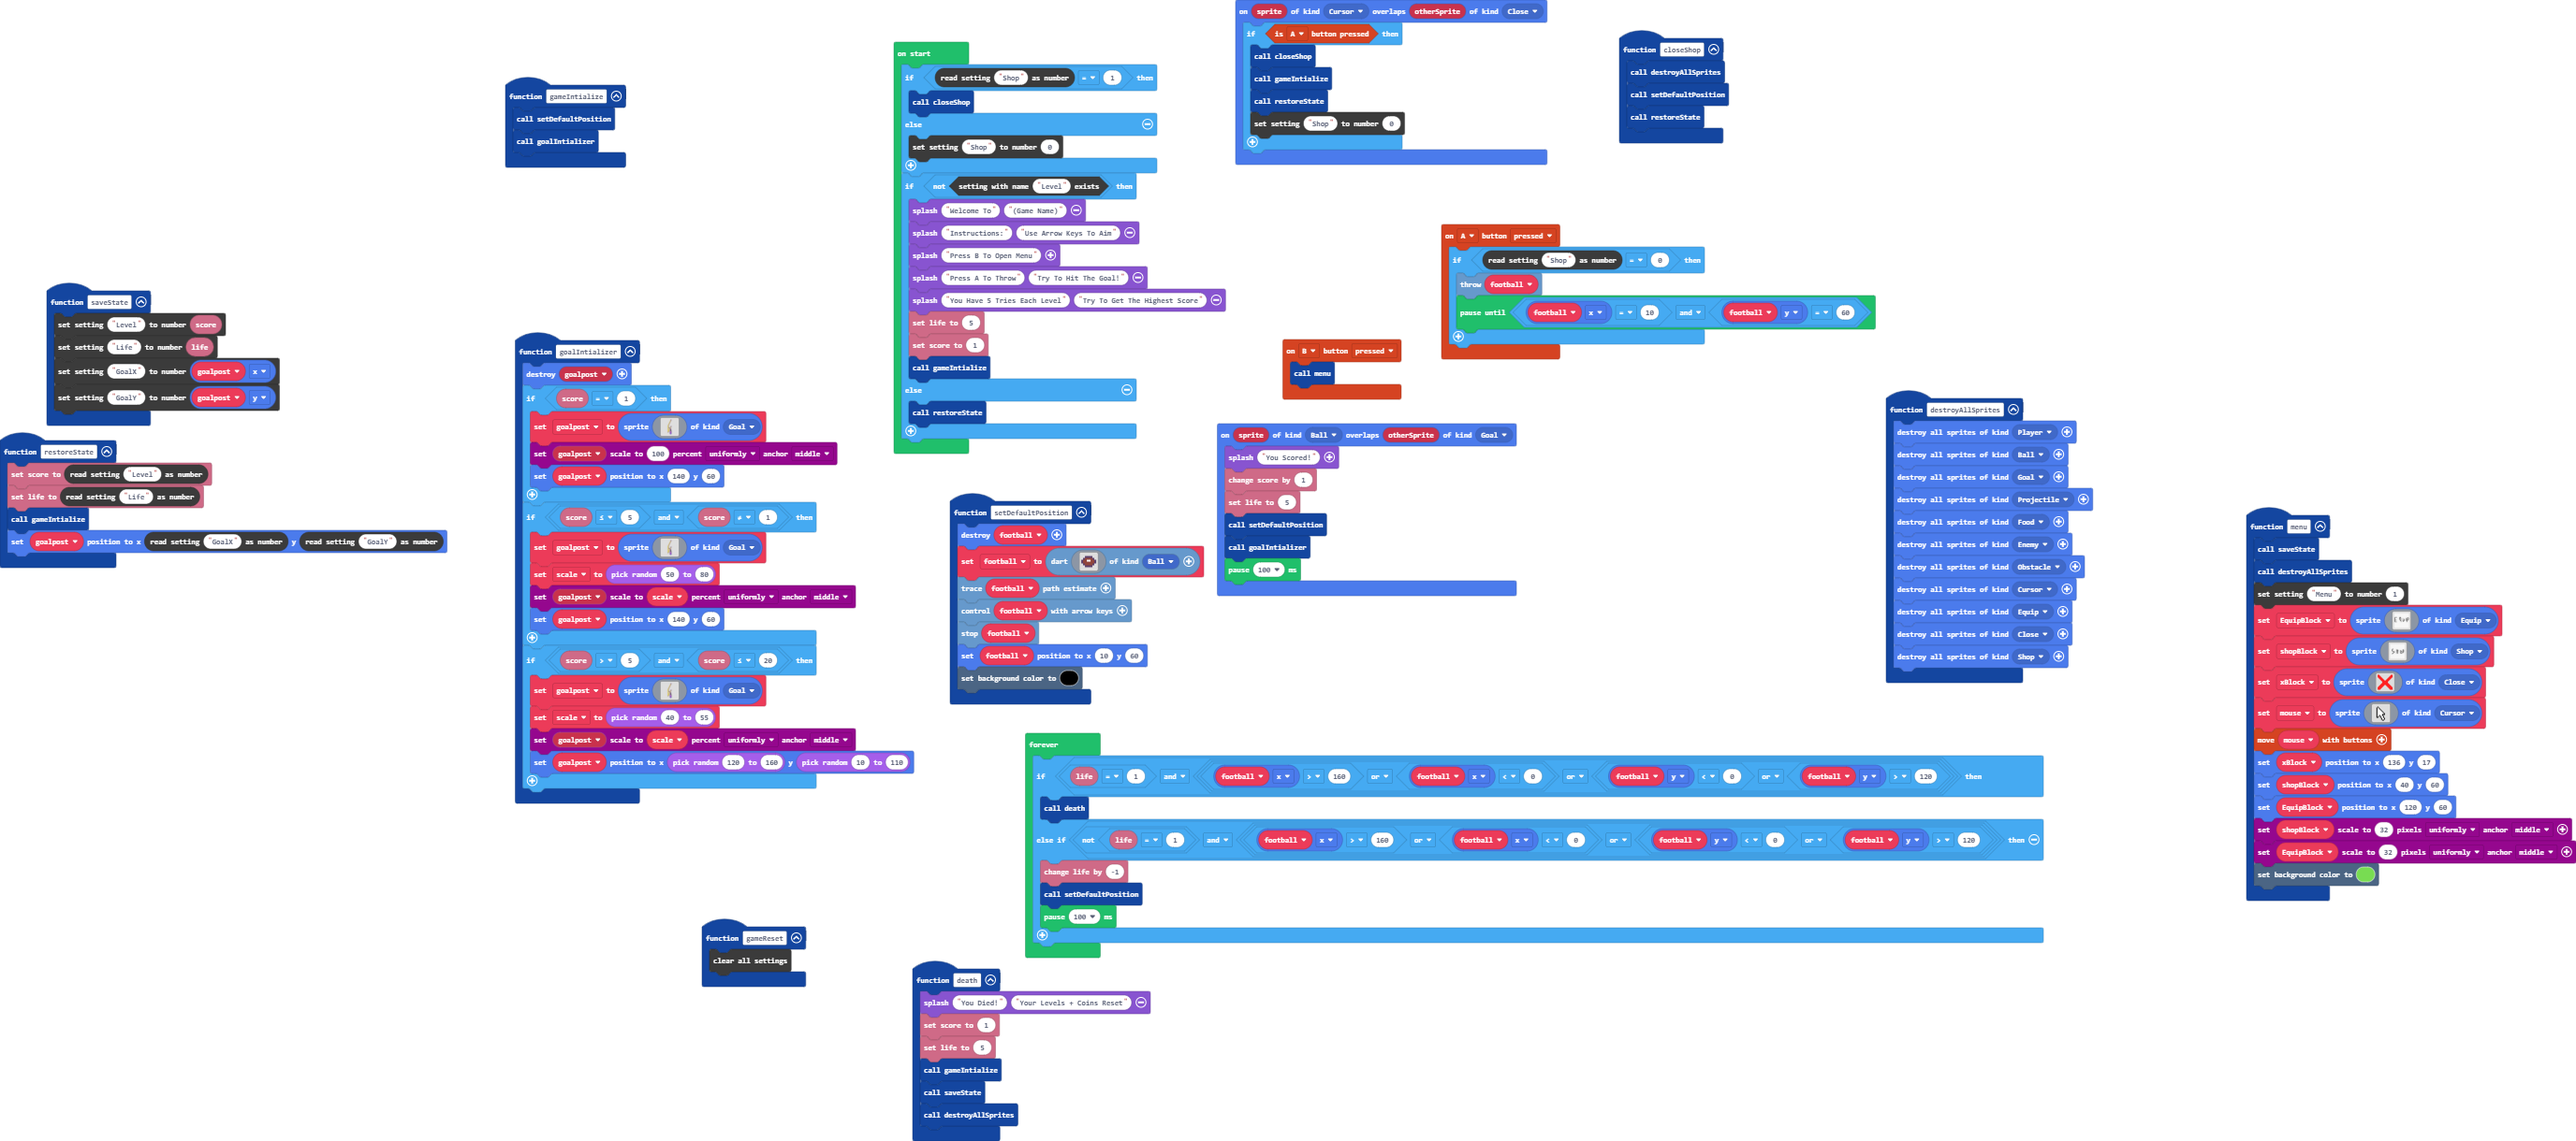
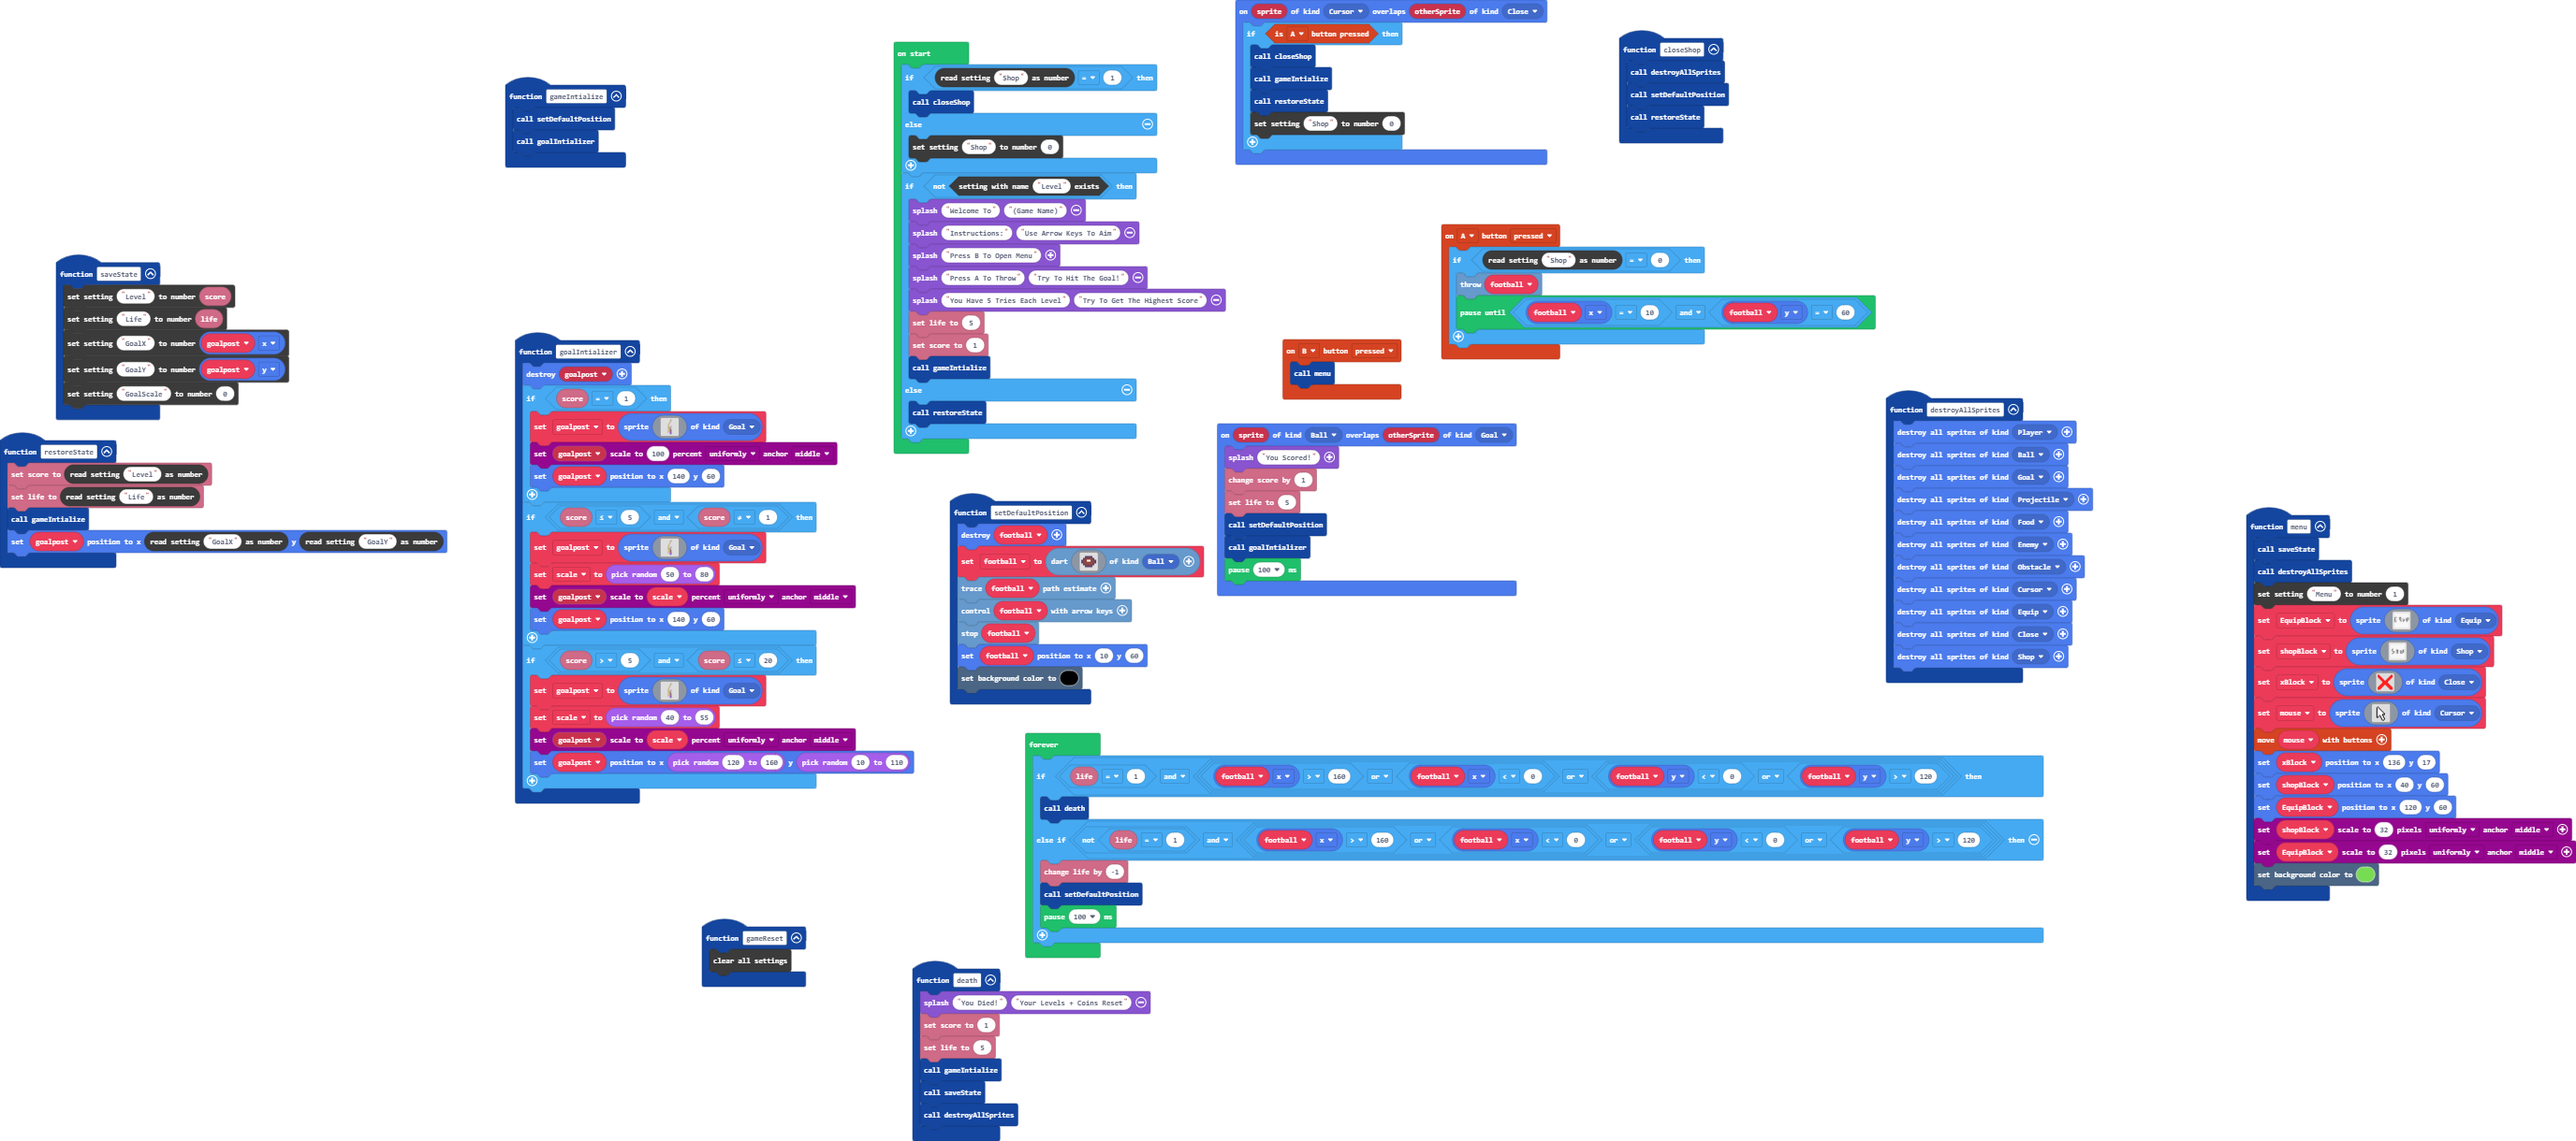
Update main.blocks, main.ts

Changed region(s): [[0.0, 0.218, 0.125, 0.3738]]

diff --git a/main.ts b/main.ts
@@ -291,6 +291,7 @@ function saveState () {
     blockSettings.writeNumber("Life", info.life())
     blockSettings.writeNumber("GoalX", goalpost.x)
     blockSettings.writeNumber("GoalY", goalpost.y)
+    blockSettings.writeNumber("GoalScale", 0)
 }
 function gameIntialize () {
     setDefaultPosition()
